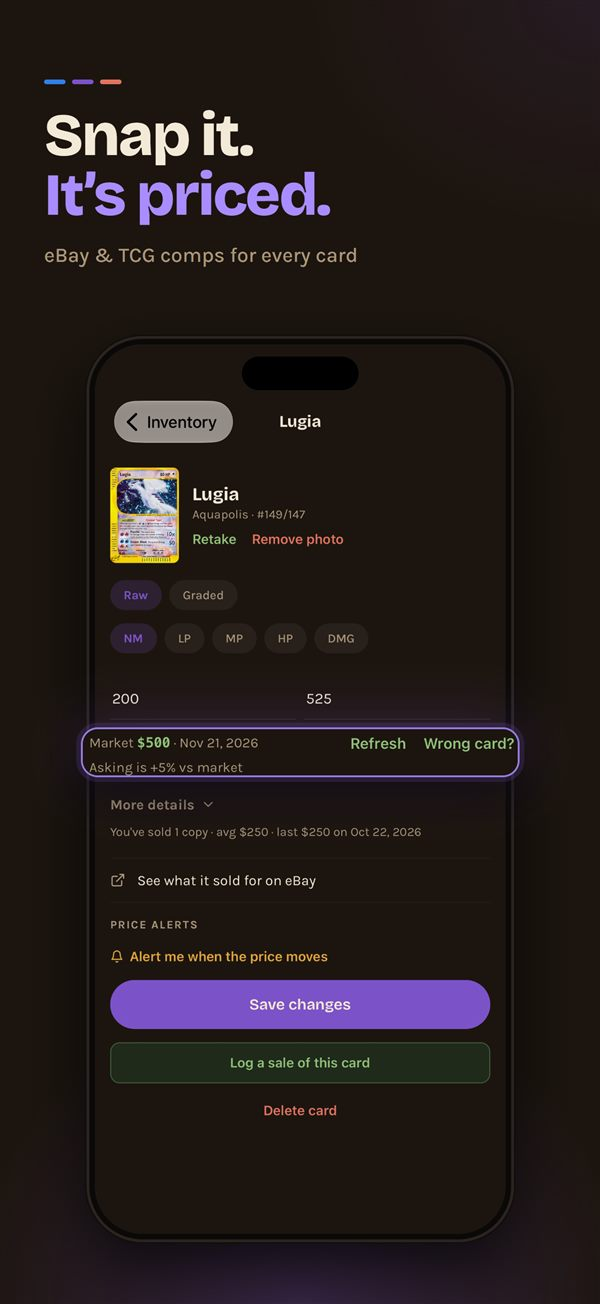
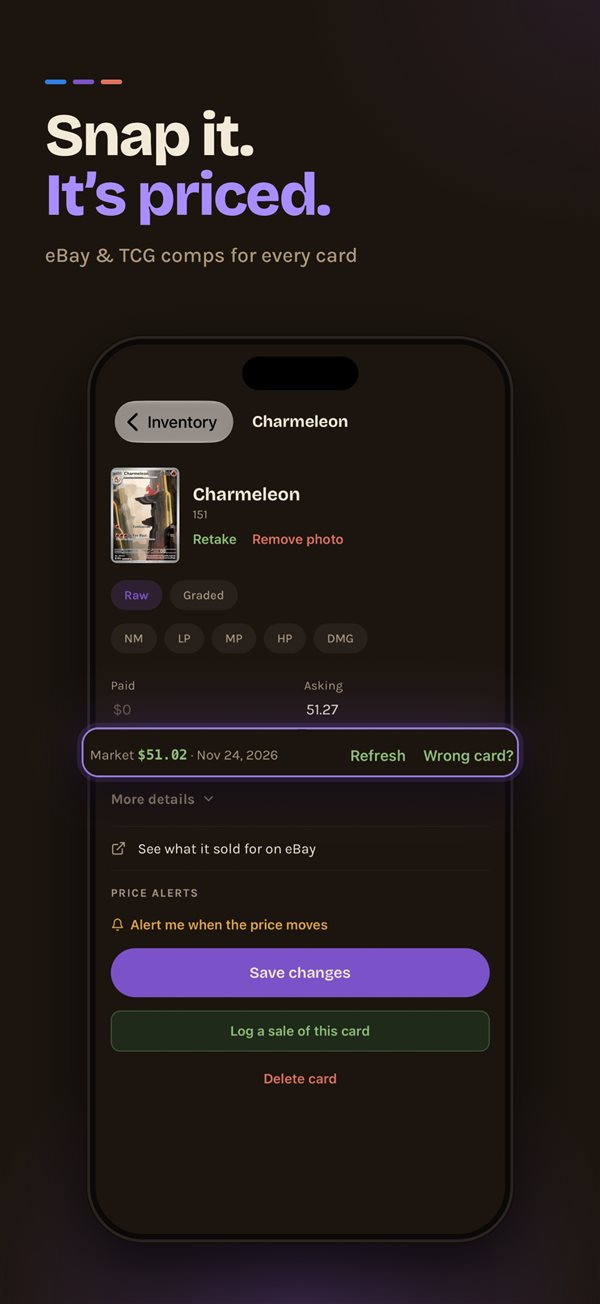
Swap the Lugia card screenshot for Charmeleon; accurate eBay wording
Claude-Session: https://claude.ai/code/session_01SCz9gYtFys2z2NQP1zbMZL

diff --git a/index.html b/index.html
@@ -4,7 +4,7 @@
 <meta charset="utf-8">
 <meta name="viewport" content="width=device-width, initial-scale=1">
 <title>VendorPro: inventory and profit tracking for card vendors</title>
-<meta name="description" content="Track every card you buy, sell and trade at card shows. Scan cards, see TCGplayer and eBay comps, and know your profit after every show. Free on iPhone.">
+<meta name="description" content="Track every card you buy, sell and trade at card shows. Scan cards, check TCGplayer prices and eBay sold listings, and know your profit after every show. Free on iPhone.">
 <meta property="og:title" content="VendorPro: built for card vendors">
 <meta property="og:description" content="Scan, price and track every buy, sell and trade at your shows. Know your profit before you pack up.">
 <meta property="og:image" content="https://getvendorpro.app/img/4-vendor-mode.jpg">
@@ -127,7 +127,7 @@
       <div class="feature"><h3><span class="dot" style="background:var(--purple)"></span>Vendor Mode</h3><p>Log sales, buys and trades in seconds, with a built-in trade credit calculator.</p></div>
       <div class="feature"><h3><span class="dot" style="background:var(--green)"></span>Show recaps</h3><p>Revenue, cost and net cash flow for every show, ready the moment you pack up.</p></div>
       <div class="feature"><h3><span class="dot" style="background:var(--amber)"></span>Card scanning</h3><p>Scan raw cards, slabs and Japanese cards, or a whole stack at once with a set buy percentage.</p></div>
-      <div class="feature"><h3><span class="dot" style="background:var(--blue)"></span>Comps that matter</h3><p>TCGplayer market prices for raw cards, eBay sold listings for slabs, and sealed product prices.</p></div>
+      <div class="feature"><h3><span class="dot" style="background:var(--blue)"></span>Comps that matter</h3><p>TCGplayer market prices for raw cards and sealed product, plus a one-tap link to eBay sold listings.</p></div>
       <div class="feature"><h3><span class="dot" style="background:var(--red)"></span>Works with no signal</h3><p>Convention hall Wi-Fi drops out. Sales and buys are saved and sync when you're back online.</p></div>
       <div class="feature"><h3><span class="dot" style="background:var(--muted)"></span>Your inventory, your data</h3><p>Price moves on every card, price alerts, and CSV import and export whenever you want it.</p></div>
     </div>
